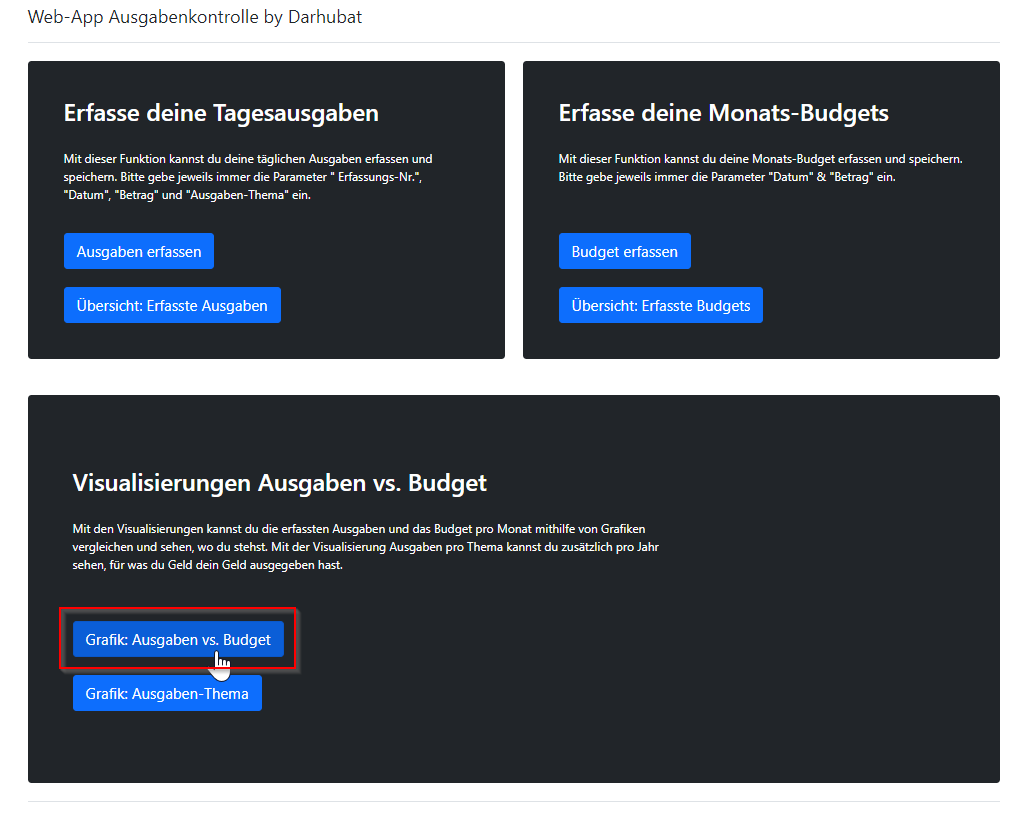
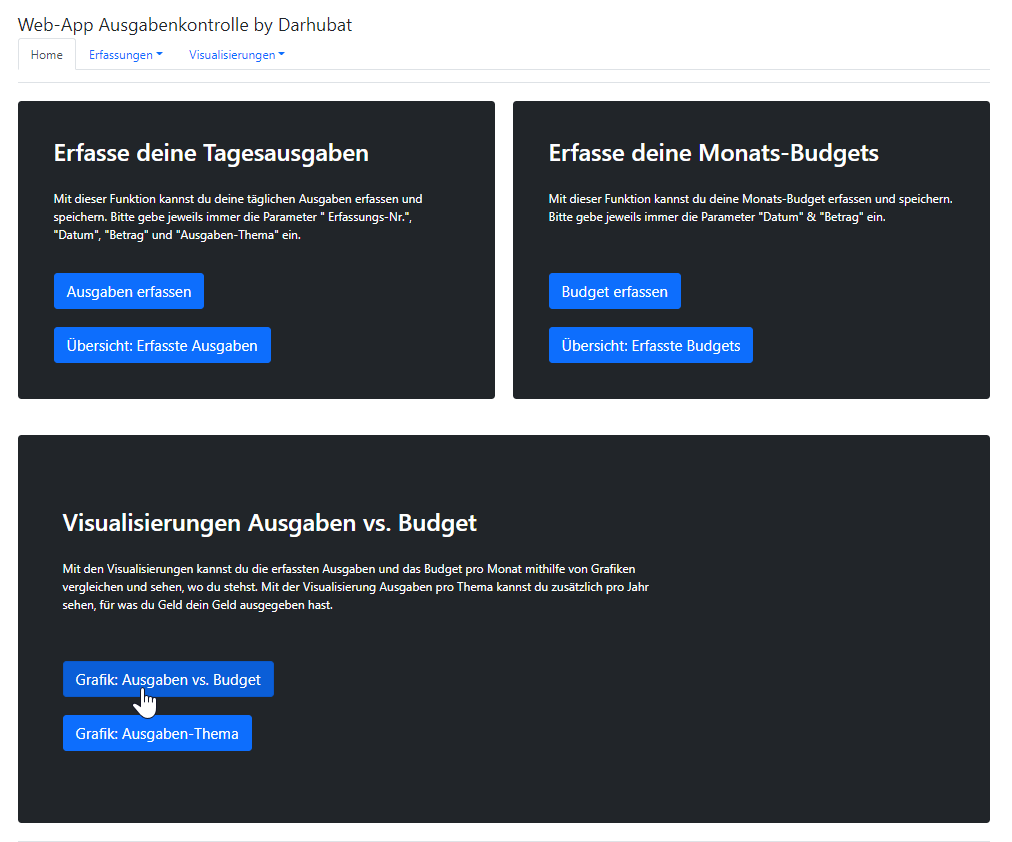
README-Datei ergänzt und noch entwas angepasst in der Dokumentation.

Changed region(s): [[0.0, 0.0, 1.0, 1.0]]

diff --git a/Projekt_App_Ausgabenkontrolle/Datenvisualisierung/datenvorbereitung/datengrundlage.py b/Projekt_App_Ausgabenkontrolle/Datenvisualisierung/datenvorbereitung/datengrundlage.py
@@ -20,7 +20,7 @@ def daten_budgeteingabe():
     return budget_daten
 
 
-# JSON-Datei der Ausgaben-Erfassungen wird mithilfe von Pandas für die Visualisierung vorbereitet
+# JSON-Datei der Ausgaben-Erfassungen wird mithilfe von Pandas für die Visualisierung vorbereitet und Summierung pro Monat
 def daten_ausgabeneingabe():
     df = pd.read_json(r'Formulare\ausgaben.json')
     df = df.T

diff --git a/Projekt_App_Ausgabenkontrolle/main.py b/Projekt_App_Ausgabenkontrolle/main.py
@@ -58,6 +58,7 @@ def budget_eingabe():
     else:
         return render_template('formular_budget.html')
 
+
 # Histogramm-Erstellung und Anzeige Ausgaben vs. Budget
 @app.route("/viz")
 def viz_ausgaben_budget():

diff --git a/README.md b/README.md
@@ -41,7 +41,7 @@ Folgende Programme bzw. Python-Pakete müssen installiert sein, um die Web-App z
 
 Mit folgender `Python-Datei` kann die Web-App "Ausgabenkontrolle" gestartet werden:
 
-`main.py`
+[`main.py`](Projekt_App_Ausgabenkontrolle/main.py "main.py")
 
 Die Web-App startet und kann mit einem beliebigen Gerät über die IP-Adresse und Port 5000 aufgerufen werden.
 
@@ -72,7 +72,7 @@ Folgende Visualisierungen wurden dabei mit `plotly`realisiert, die über verschi
 
 ## Ablaufdiagramm
 <!-- Italics -->
-![Ablaufdiagramm der Web-App "Ausgabenkontrolle](Projekt_App_Ausgabenkontrolle/Bilder/Ablaufdiagramm_WebApp_Ausgabenkontrolle.jpg "Ablaufdiagramm")
+![Ablaufdiagramm der Web-App "Ausgabenkontrolle](Projekt_App_Ausgabenkontrolle/Bilder/Ablaufdiagramm_WebApp_Ausgabenkontrolle.png "Ablaufdiagramm")
 
 ***
 
@@ -80,7 +80,8 @@ Folgende Visualisierungen wurden dabei mit `plotly`realisiert, die über verschi
 ### Startseite
 <!-- Italics -->
 Von der `Startseite` aus können alle Funktionen der Web-App abgerufen werden. Des Weiteren lässt sich von jeder Seite auch
-wieder zurück navigieren über den entsprechenden Button `Startseite`.
+wieder zurück navigieren über den entsprechenden Button `Startseite` oder über die Navbar `Home`. Alle Aktionen können
+ebenfalls über die Navbar erreicht werden, über die Auswahl `Home`, `Erfassungen` und `Visualisierungen`.
 ![Startseite der Web-App](Projekt_App_Ausgabenkontrolle/Bilder/0_Startseite_Übersicht.png "Startseite")
 
 ### Tages-Ausgabe erfassen
@@ -109,7 +110,7 @@ Anschliessend können mit dem Button `speichern` die Eingaben in der JSON-Datei 
 Ob die Ausgabe erfolgreich gespeichert wurde, siehst du anhand der folgenden Ansicht:
 ![Monats-Budget gespeichert](Projekt_App_Ausgabenkontrolle/Bilder/6_Budget_gespeichert.png "Monats-Budget gespeichert")
 Du kannst nun mit dem Button `Weiteres Budget erfassen` ein neues Budget-Formular aufrufen und den nächsten Budget-Monat erfassen
-oder mit dem Button `Startseite` wieder zurück auf die Startseite navigieren.
+oder mit dem Button `Startseite` oder `Home` in der Navbar wieder zurück auf die Startseite navigieren.
 
 ### Übersicht erfasste Ausgabe- und Budget-Daten 
 <!-- Italics -->
@@ -118,7 +119,7 @@ mithilfe einer interaktiven Plotly-Tabelle abrufen und hast somit immer die Übe
 ![Tabellen_aufrufen](Projekt_App_Ausgabenkontrolle/Bilder/7_Eingaben_in_Tabellenform.png "Tabellen aufrufen")
 ![Tabelle_Ausgaben](Projekt_App_Ausgabenkontrolle/Bilder/8_interaktive_Tabelle_Ausgaben.png "Tabelle Ausgaben aufrufen")
 ![Tabelle_Budget](Projekt_App_Ausgabenkontrolle/Bilder/9_interaktive_Tabelle_Budget.png "Tabelle Budget aufrufen")
-Mit dem Button `Startseite` kannst du auch wieder einfach zurück auf die Ausgangs-Seite navigieren.
+Mit dem Button `Startseite` oder `Home` in der Navbar kannst du auch wieder einfach zurück auf die Ausgangs-Seite navigieren.
 
 ### Auswertungen bzw. Visualisierungen aufrufen
 <!-- Italics -->
